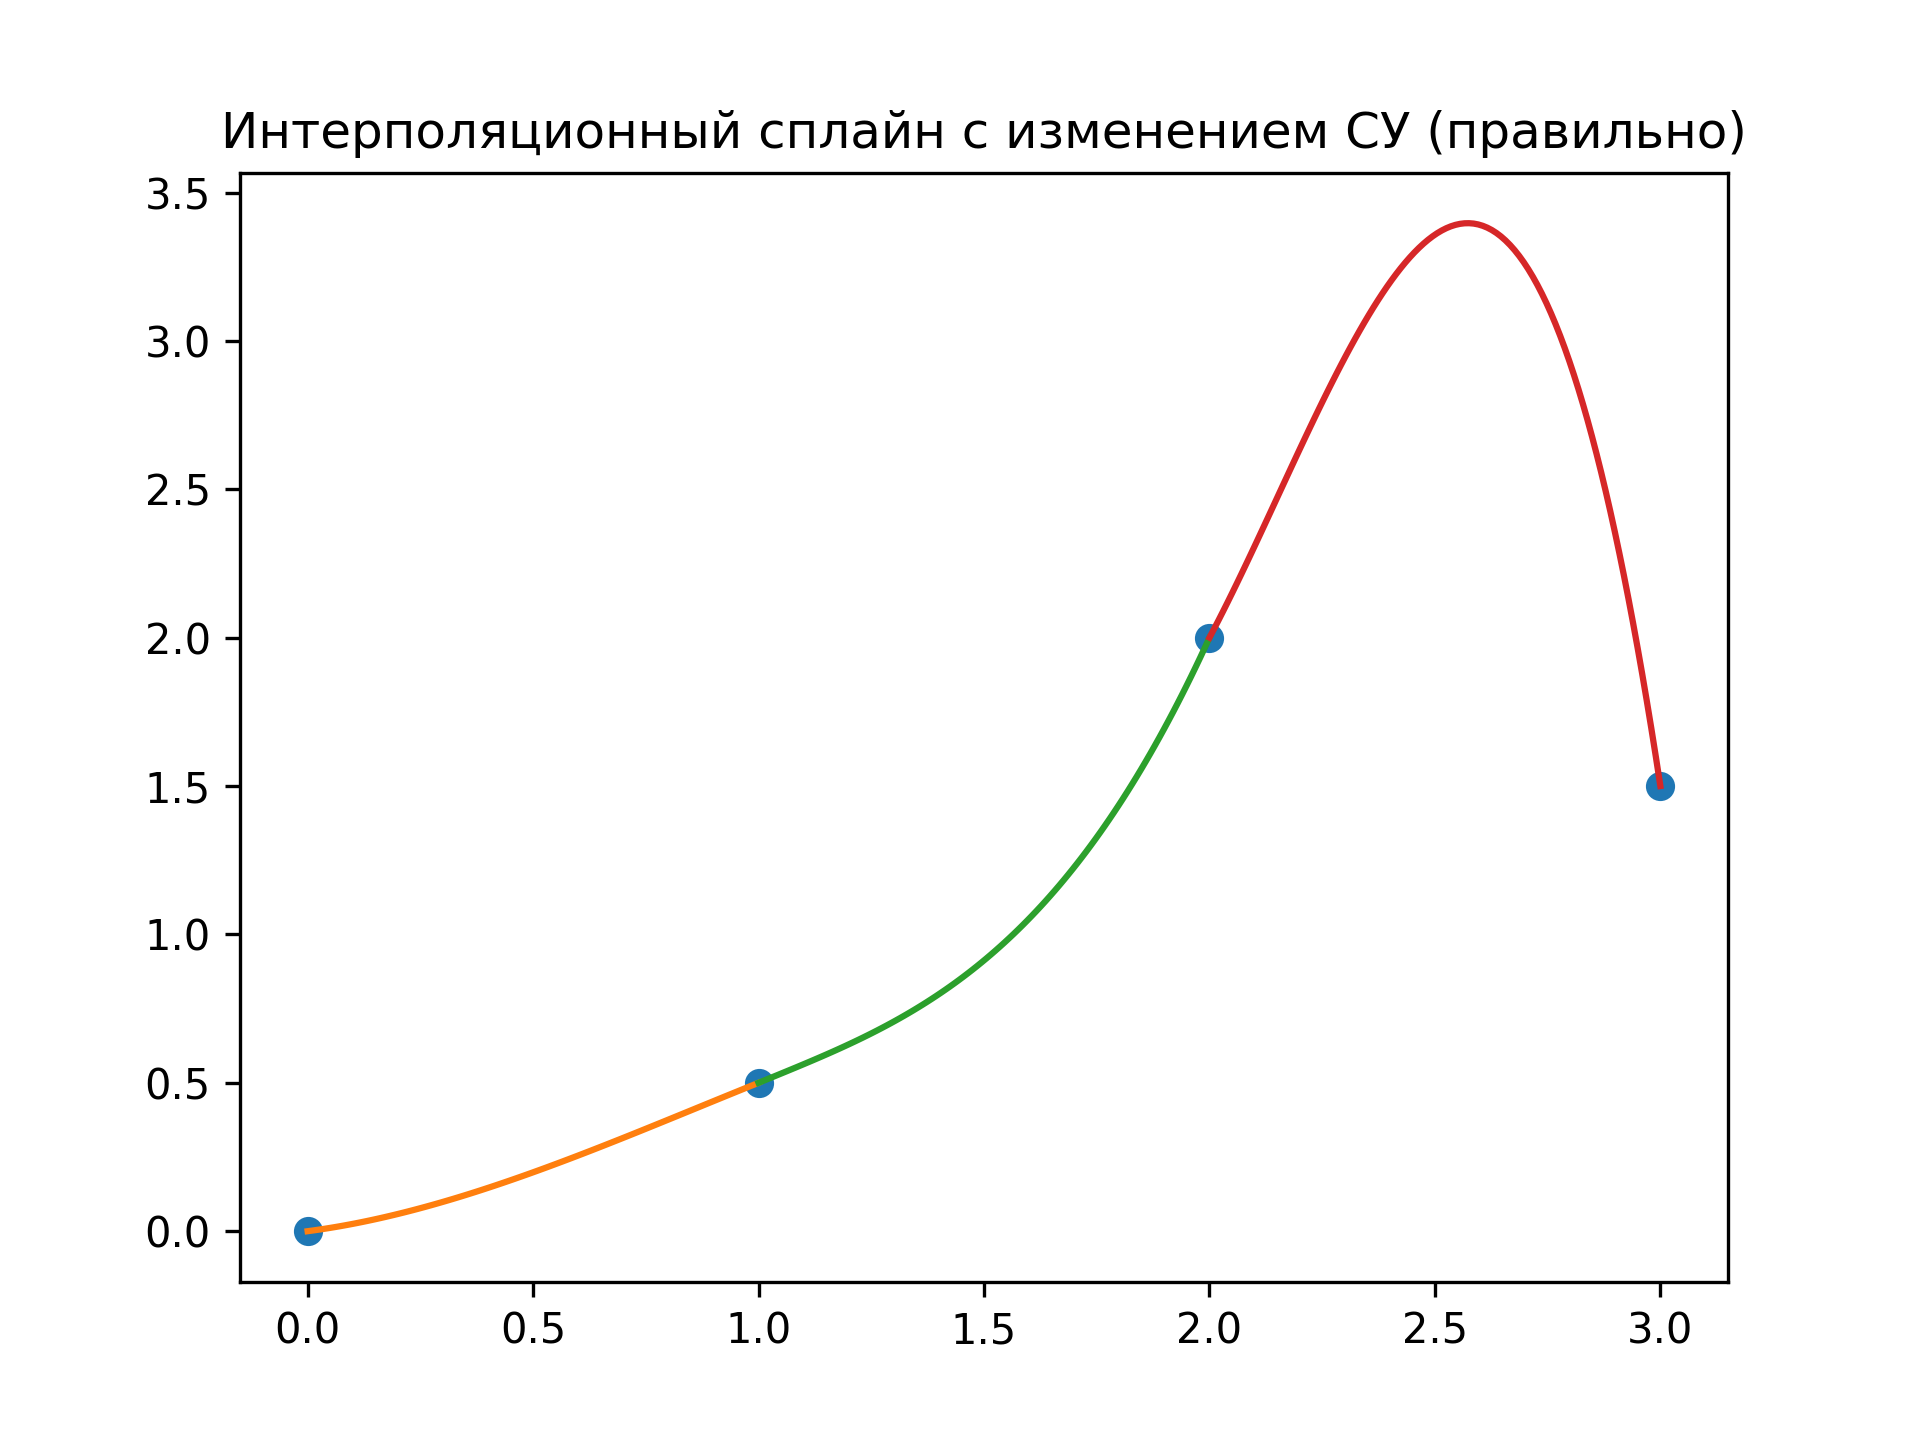
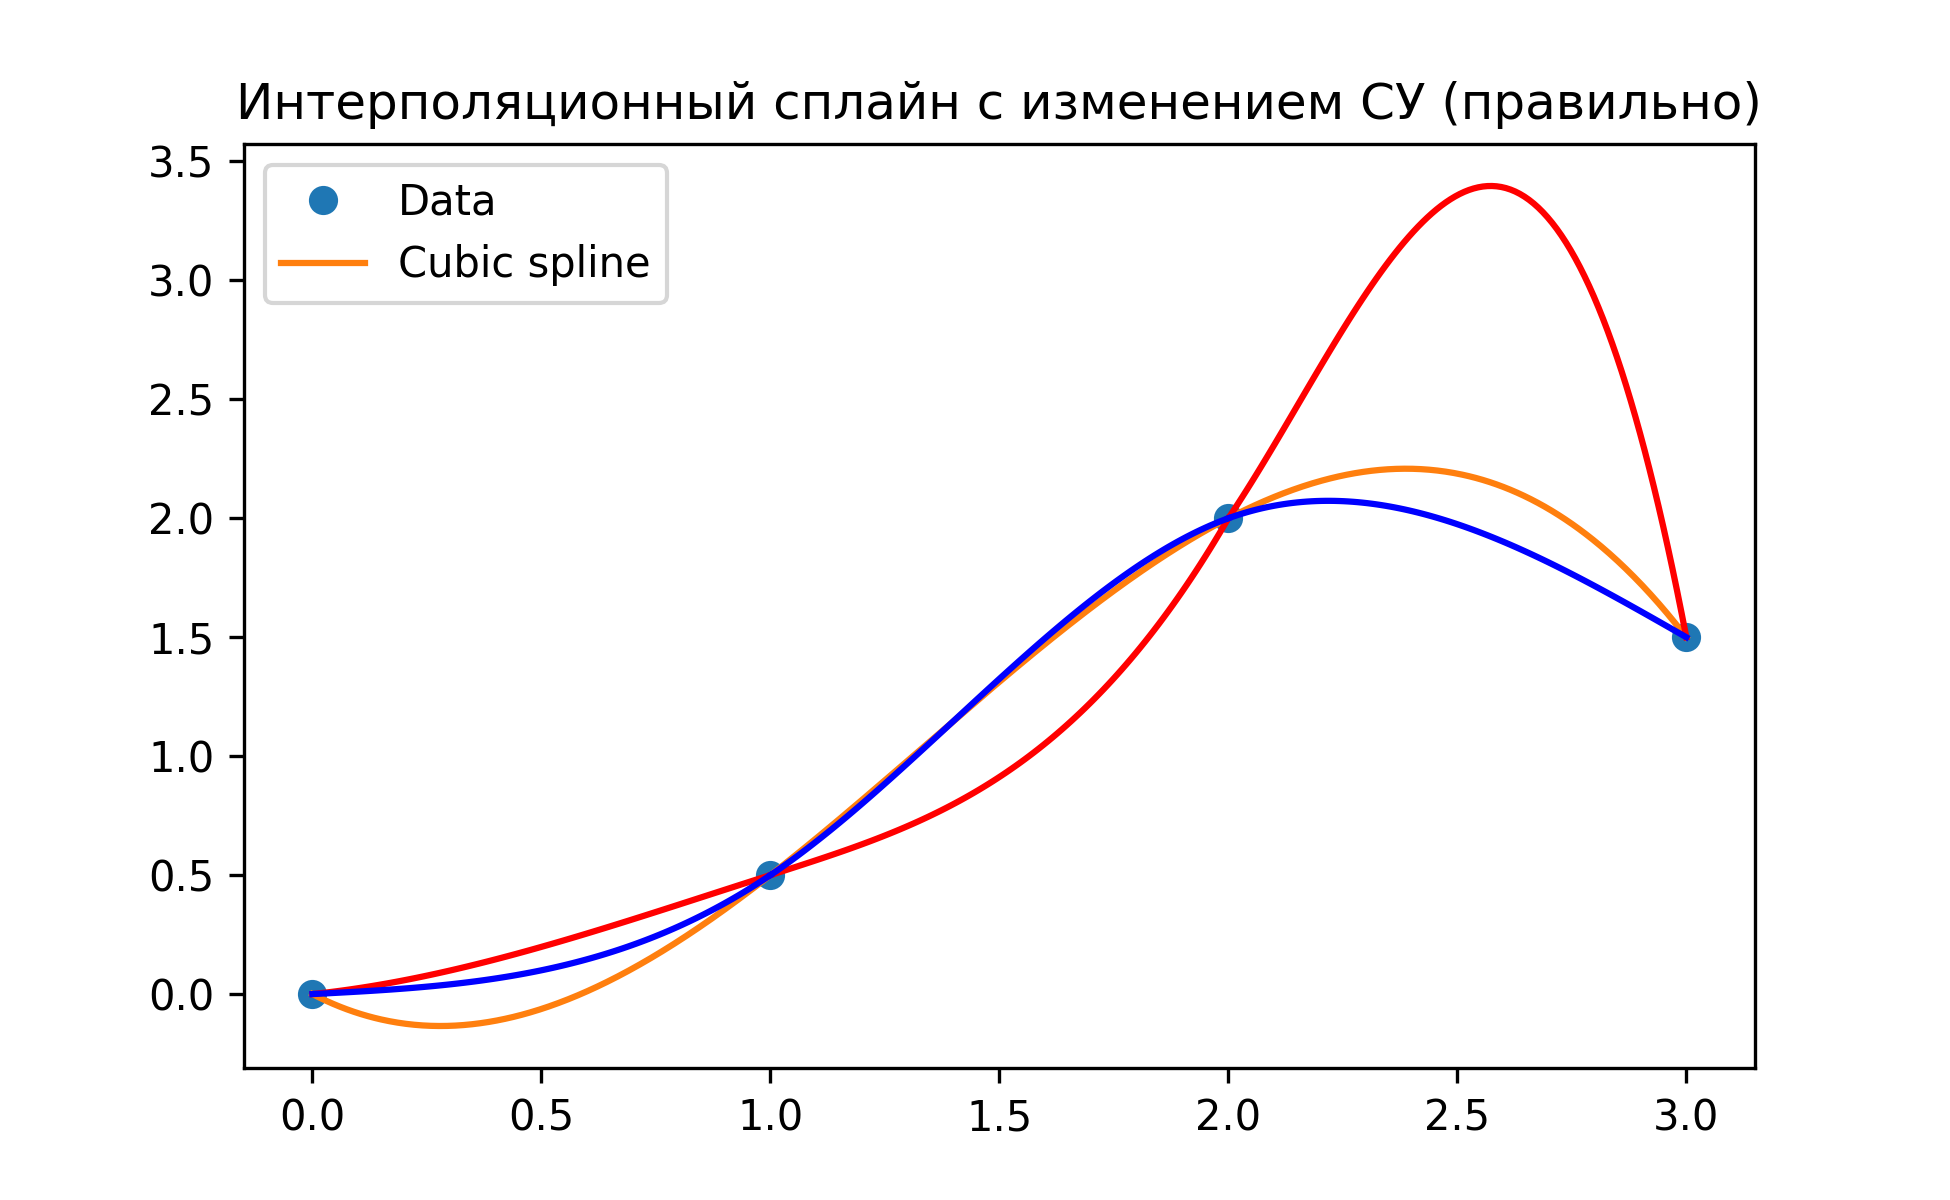
#00000025

diff --git a/seminar3/2-2026_09_25.py b/seminar3/2-2026_09_25.py
@@ -1,6 +1,7 @@
 
 import numpy as np
 import matplotlib.pyplot as plt
+from scipy.interpolate import CubicSpline
 
 x_observed = np.array([0, 1, 2, 3])
 y_observed = np.array([0, 0.5, 2, 1.5])
@@ -37,12 +38,44 @@ coef1 = d - h / 6 * (2 * m[:-1] + m[1:])
 coef2 = m[:-1] / 2
 coef3 = (m[1:] - m[:-1]) / (6 * h)
 
-plt.plot(x_observed, y_observed, 'o', label='data')
+bins = np.linspace(x_observed[0], x_observed[-1], 1000)
+cs = CubicSpline(x_observed, y_observed)
+
+fig, ax = plt.subplots(figsize=(6.5, 4))
+ax.plot(x_observed, y_observed, 'o', label='Data')
+ax.plot(bins, cs(bins), label='Cubic spline')
+
 for k in range(len(coef0)):
     bins = np.linspace(x_observed[k], x_observed[k + 1], 100) - x_observed[k]
 
     y = np.polyval([coef3[k], coef2[k], coef1[k], coef0[k]], bins)
-    plt.plot(x_observed[k] + bins, y)
+    ax.plot(x_observed[k] + bins, y, color='red')
+
+
+h = x_observed[1:] - x_observed[:-1]
+d = (y_observed[1:] - y_observed[:-1]) / h
+b = 6 * (d[1:] - d[:-1])
+
+A = A_up + A_middle + A_down
+m = np.linalg.solve(A, b)
+
+m_0 = 0
+m_N = 0
+
+m = np.hstack([m_0, m, m_N])
+
+coef0 = y_observed[:-1]
+coef1 = d - h / 6 * (2 * m[:-1] + m[1:])
+coef2 = m[:-1] / 2
+coef3 = (m[1:] - m[:-1]) / (6 * h)
+
+for k in range(len(coef0)):
+    bins = np.linspace(x_observed[k], x_observed[k + 1], 100) - x_observed[k]
+
+    y = np.polyval([coef3[k], coef2[k], coef1[k], coef0[k]], bins)
+    ax.plot(x_observed[k] + bins, y, color='blue')
+
+ax.legend()
 plt.title("Интерполяционный сплайн с изменением СУ (правильно)")
 plt.savefig('2_cubic_my.png', dpi=300)
 plt.show()

diff --git a/test1/task2var1_2026_09_25.py b/test1/task2var1_2026_09_25.py
@@ -1,0 +1,30 @@
+
+import numpy as np
+import matplotlib.pyplot as plt
+from scipy.interpolate import lagrange
+from numpy import polyval
+
+def f(x):
+    return np.sin(3 * x / 2 + 1)
+a = 0
+b = np.pi
+N = 9
+x_linear = np.linspace(a, b, N)
+k = np.arange(0, N, 1)
+x_cheb = (a + b) / 2 + (b - a) / 2 * np.cos(np.pi * (2 * k - 1) / (2 * N))
+
+bins = np.linspace(a, b, 100)
+
+coefs_linear = lagrange(x_linear, f(x_linear)).coef
+coefs_cheb = lagrange(x_cheb, f(x_cheb)).coef
+
+y_linear = polyval(coefs_linear, bins)
+y_cheb = polyval(coefs_cheb, bins)
+
+plt.plot(bins, f(bins), label='true')
+plt.plot(x_linear, y_linear, label='linear')
+plt.plot(x_cheb, y_cheb, label='cheb')
+plt.scatter(x_linear, f(x_linear))
+plt.scatter(x_cheb, f(x_cheb))
+plt.savefig('task2var1.png', dpi=300)
+plt.show()

diff --git a/test1/task1var3_2026_09_25.py b/test1/task1var3_2026_09_25.py
@@ -1,0 +1,30 @@
+
+import numpy as np
+import matplotlib.pyplot as plt
+
+def P(x):
+    return 924 * x ** 6 - 2772 * x ** 5 + 3150 * x ** 4 - 1680 * x ** 3 + 420 * x ** 2 - 42 * x + 1
+
+
+def bisection(a, b):
+    c = (a + b) / 2
+    if P(a) * P(b) > 0:
+        return bisection(0, 0.5)
+    while np.abs(b - a) > 1e-14:
+        c = (a + b) / 2
+        if P(a) * P(c) < 0:
+            b = c
+        else:
+            a = c
+    return c
+
+x = np.linspace(0, 1, 100)
+solutions = np.round(np.array([bisection(a, a + 0.05) for a in np.arange(0, 1, 0.01)]), 11)
+solutions = np.unique(solutions)
+print(solutions)
+plt.grid(which='major')
+plt.grid(which='minor')
+plt.plot(x, P(x))
+plt.scatter(solutions, P(solutions))
+plt.savefig('task1var3.png', dpi=300)
+plt.show()

diff --git a/test1/task1var1_2026_09_25.py b/test1/task1var1_2026_09_25.py
@@ -1,0 +1,24 @@
+
+import numpy as np
+
+n = 2000
+x = 50
+
+
+
+def factorial(n):
+    answer = 1
+    i = 1
+    while i < n:
+        i += 1
+        answer *= i
+
+    return answer
+
+def exp(x):
+    result = 0
+    for i in range(1, n):
+        result += x ** i / factorial(i)
+    return result
+
+print(np.exp(x), exp(x), np.exp(x) - exp(x))

diff --git a/test1/task1var2_2026_09_25.py b/test1/task1var2_2026_09_25.py
@@ -1,0 +1,17 @@
+
+import numpy as np
+import matplotlib.pyplot as plt
+
+def g(x, c):
+    return c * x * (1 - x)
+
+def solve(c):
+    x = 0.2
+    while np.abs(g(x, c) - x) / np.abs(g(x, c)) > 1e-6:
+        x = g(x, c)
+    return x
+
+c_s = np.arange(0, 3, 0.01)
+x_s = [solve(c_i) for c_i in c_s]
+plt.plot(c_s, x_s)
+plt.show()
